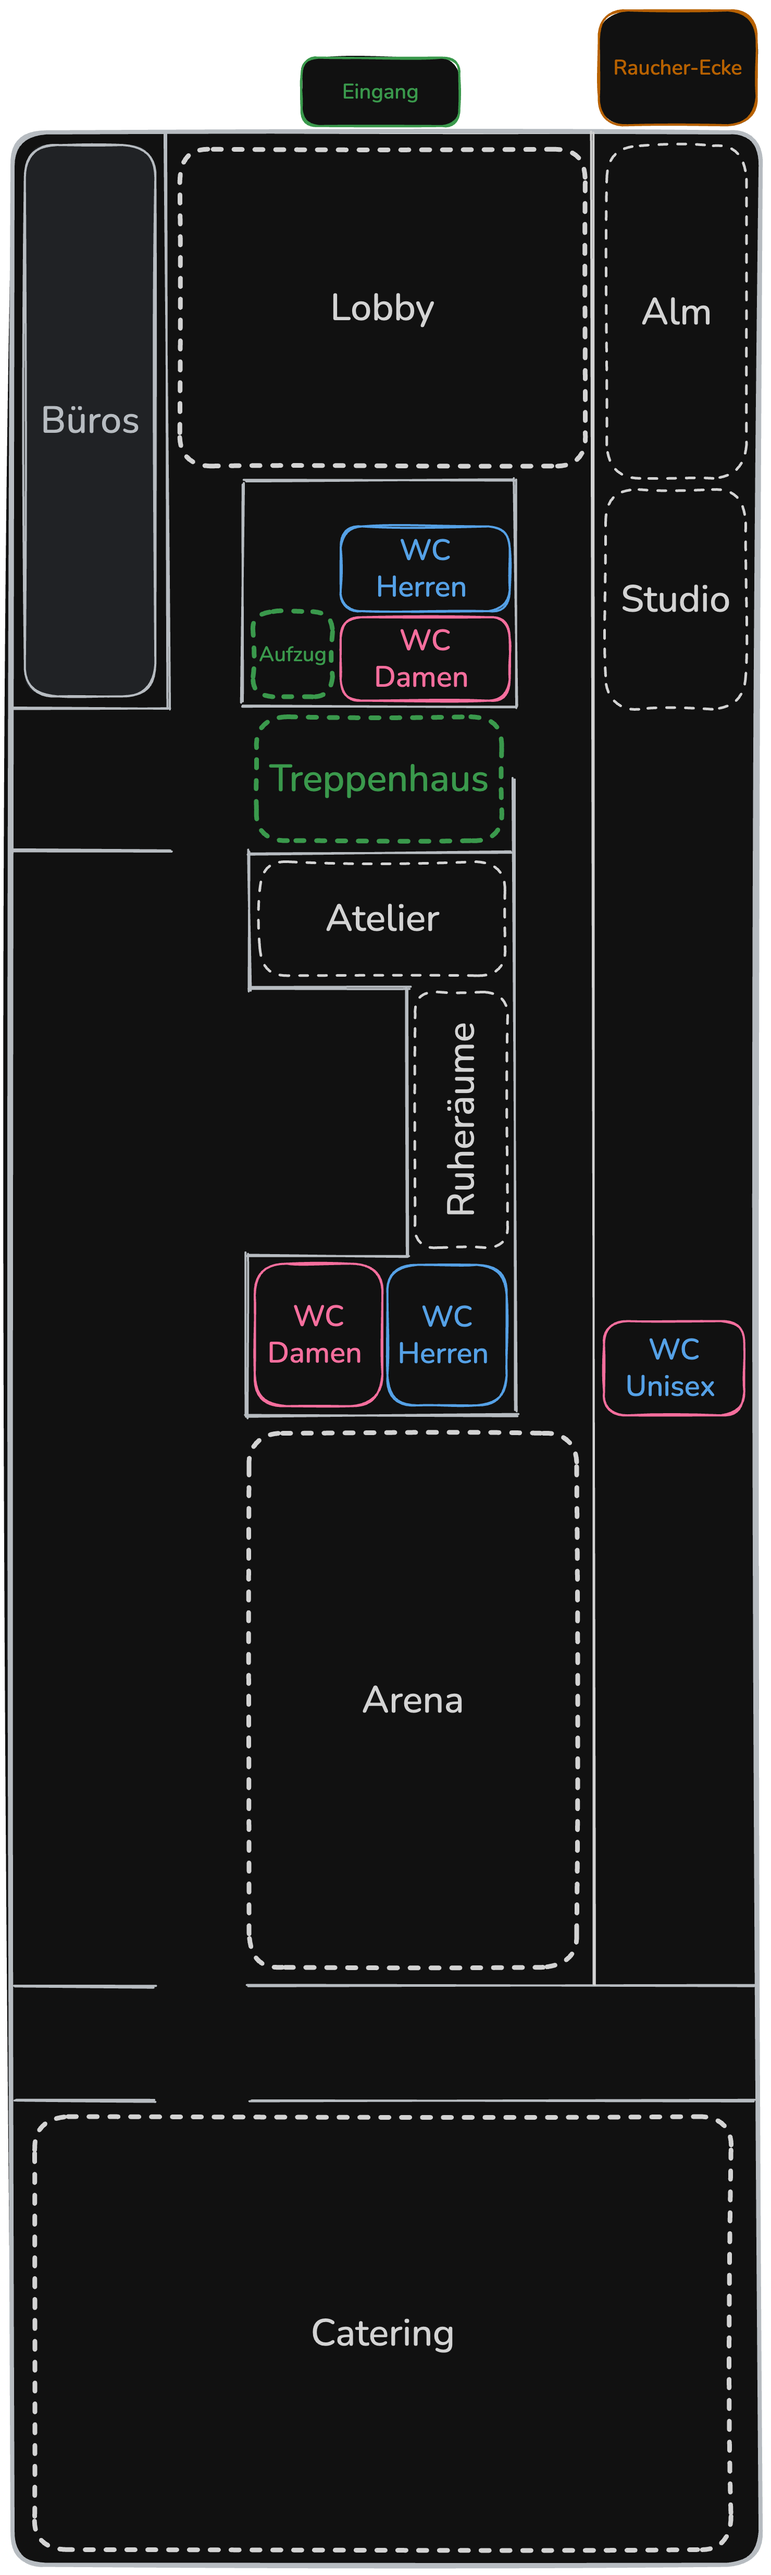
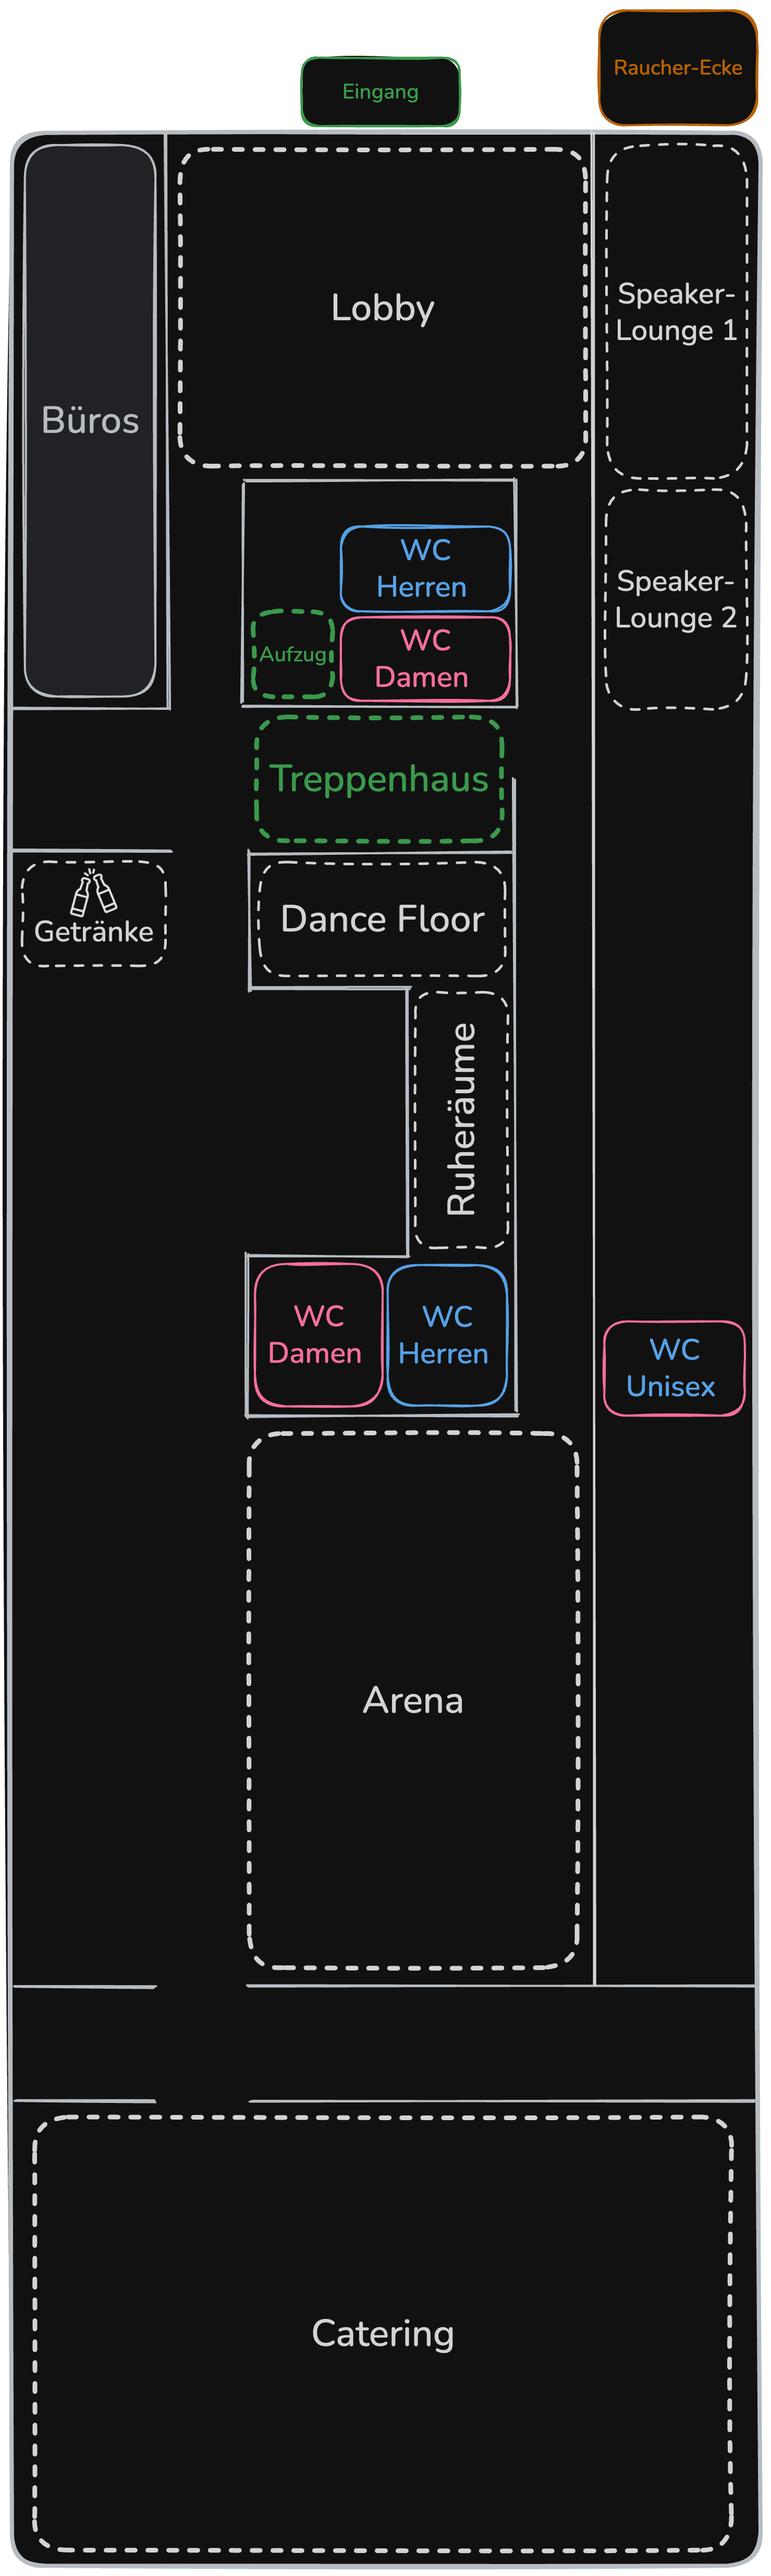
update map

diff --git a/app/modals/map-view.tsx b/app/modals/map-view.tsx
@@ -11,6 +11,7 @@ import { useThemeColor } from "@/hooks/useThemeColor";
 import { useI18n } from "@/hooks/useI18n";
 import { SafeAreaView } from "react-native-safe-area-context";
 import { useImageZoomPan } from "@/hooks/useImageZoomPan";
+import { Colors } from "@/constants/Colors";
 
 const MAP_IMAGES = {
     eg: require("@/assets/images/map/map_eg.png"),
@@ -22,6 +23,7 @@ export default function MapViewModal() {
     const { t } = useI18n();
 
     // Theme colors
+    const darkBackgroundColor = Colors.dark.background;
     const textColor = useThemeColor({}, "text");
     const backgroundColor = useThemeColor({}, "background");
     const tintColor = useThemeColor({}, "tint");
@@ -54,7 +56,7 @@ export default function MapViewModal() {
                     <Animated.View style={styles.imageContainer}>
                         <Animated.Image
                             source={MAP_IMAGES[selectedFloor]}
-                            style={[styles.image, animatedImageStyle]}
+                            style={[styles.image, animatedImageStyle, { backgroundColor: darkBackgroundColor }]}
                             resizeMode="contain"
                         />
                     </Animated.View>
